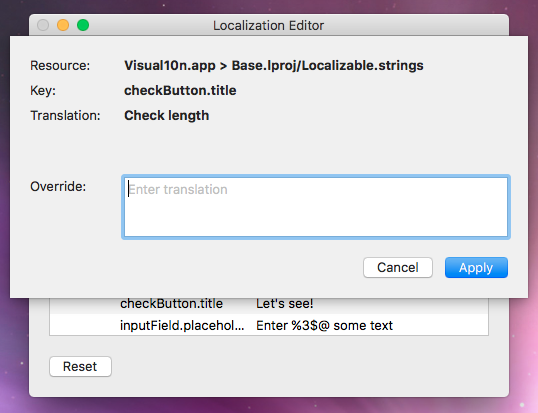
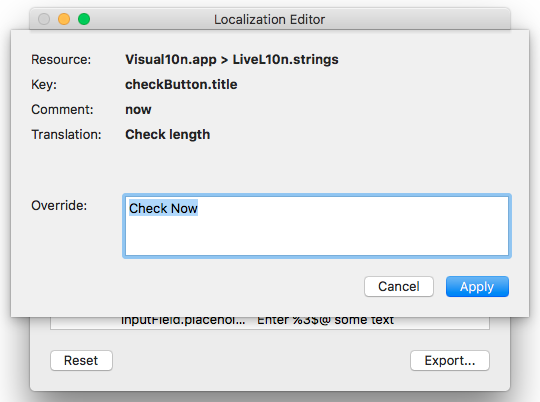
Updated documentation

diff --git a/doc/GettingStarted.md b/doc/GettingStarted.md
@@ -25,6 +25,8 @@ Ilion is not (yet) a replacement for the user interface of cloud-based localizat
 
 For Ilion to work, it needs to be explicitly enabled by the developers when the app is built. This usually means that you'll have to ask for a custom build instead of using the publicly released versions.
 
+#### Browsing strings
+
 When you launch the app, you'll notice that in the application menu there is a new menu item named _Launch Ilion_:
 
 ![application menu](app_menu.png)
@@ -35,15 +37,25 @@ Clicking the menu item brings up the Ilion browser window:
 
 This window shows all the modifiable copies in the application for all enabled languages. The rows in bold indicate the copies you have already modified. Use the search field to filter the list. You can also adjust whether you want to see all matching copies, just the ones you have already customized, or the yet untouched ones.
 
+#### Editing strings
+
 Once you find the entry you are looking for, doubleclick on the row (or select it and hit Return) to open the edit panel.
 
 ![edit panel](edit_panel_simple.png)
 
-In this panel you can see some metadata about the copy being edited. Here, _Key_ is just an identifier developers use to refer to this string in the code. _Translation_ is the actual text that will be shown to the users, and this is what you can replace by filling out the _Override_ field. When you are done, hit Apply to commit the changes.
+In this panel you can see some metadata about the copy being edited. Here, _Key_ is just an identifier developers use to refer to this string in the code. _Comment_ is an optional hint that the developers may have attached to this entry to aid the translation by giving some context. _Translation_ is the actual text that will be shown to the users, and this is what you can replace by filling out the _Override_ field. When you are done, hit Apply to commit the changes.
 
 Note: to revert to the original copy, it is not sufficient to clear the text field. Instead, you should go back to the browser window, select the entry from the list, and press Backspace. If you want to start over from scratch, use the _Reset_ button to trash all previous changes.
 
 **IMPORTANT:** Changes made to copies are never immediately reflected on the app UI. E.g. if you are customizing texts in a dialog, you'll have to close and reopen the dialog to see the updated texts. Customizing other parts of the application (e.g. the main menu) may even require restarting the app for changes to take effect. This is a known limitation.
+
+### Exporting changes
+
+Ilion now supports exporting the app's string resources with all the changes that have previously been applied. For this, hit _Export..._ in the bottom right corner of the browser window.
+
+![export button](export_button.png)
+
+You are then presented with a file dialog where you can select the directory to save the resources to. When exporting is finished, the exported files will be revealed in the Finder.
 
 ### Advanced topics
 

diff --git a/README.md b/README.md
@@ -6,13 +6,13 @@ Ilion is (going to be) a localization helper tool for macOS that cuts the length
 
 ### About the name
 
-Ilion stands from i(nstant)-localization (l10n), but the name also makes reference to the ancient city of Troy, which the Greeks infiltrated by means of the famous Trojan Horse trick.
+Ilion stands for i(nstant)-localization (l10n), but the name also makes reference to the ancient city of Troy, which the Greeks infiltrated by means of the famous Trojan Horse trick.
 
 ### What is it good for?
 
-Ilion's purpose is to allow for near-live app localization on macOS. This means that localized strings can be added, removed, or changed run-time, without having to rebuild the project. In some cases, the app should be relaunched in order to see the changes, but sometimes not even that is necessary. Translators who have been suffering from lack of context can now have something real to play with. Checking whether the resizing behavior is properly configured for a text UI element or iterating on a translation until it fits-- all these can now be done with almost instant feedback using Ilion.
+Ilion's purpose is to allow for near-live app localization on macOS. This means that localized string overrides can be added, removed, or changed run-time, without having to rebuild the project. In some cases, the app should be relaunched in order to see the changes, but sometimes not even that is necessary. Translators who have been suffering from lack of context can now have something real to play with. Checking whether the resizing behavior is properly configured for a text UI element or iterating on a translation until it fits-- all these can now be done with almost instant feedback using Ilion.
 
-### How does it work
+### How does it work?
 
 Ilion needs to be built into the target application. When the app is launched, the framework intercepts calls to `NSLocalizedString` and proxies them to a string database built from the `.strings` resources and the previously set overrides. This database can then be accessed and modified via the Ilion UI.
 
@@ -52,11 +52,11 @@ macOS 10.10
 
 - only `.strings`/`.stringsdict` files and UI base localization are supported (that is, one XIB + many strings files)
 - changes are only preserved on the machine they have been made on
-- changes cannot be exported or committed back to the original resources
+- changes cannot be committed back into the app bundle
 
 ### Planned improvements
 
-- export changes to file
+- instant update of changed views
 - integration with cloud-based translation services
 
 ### License
